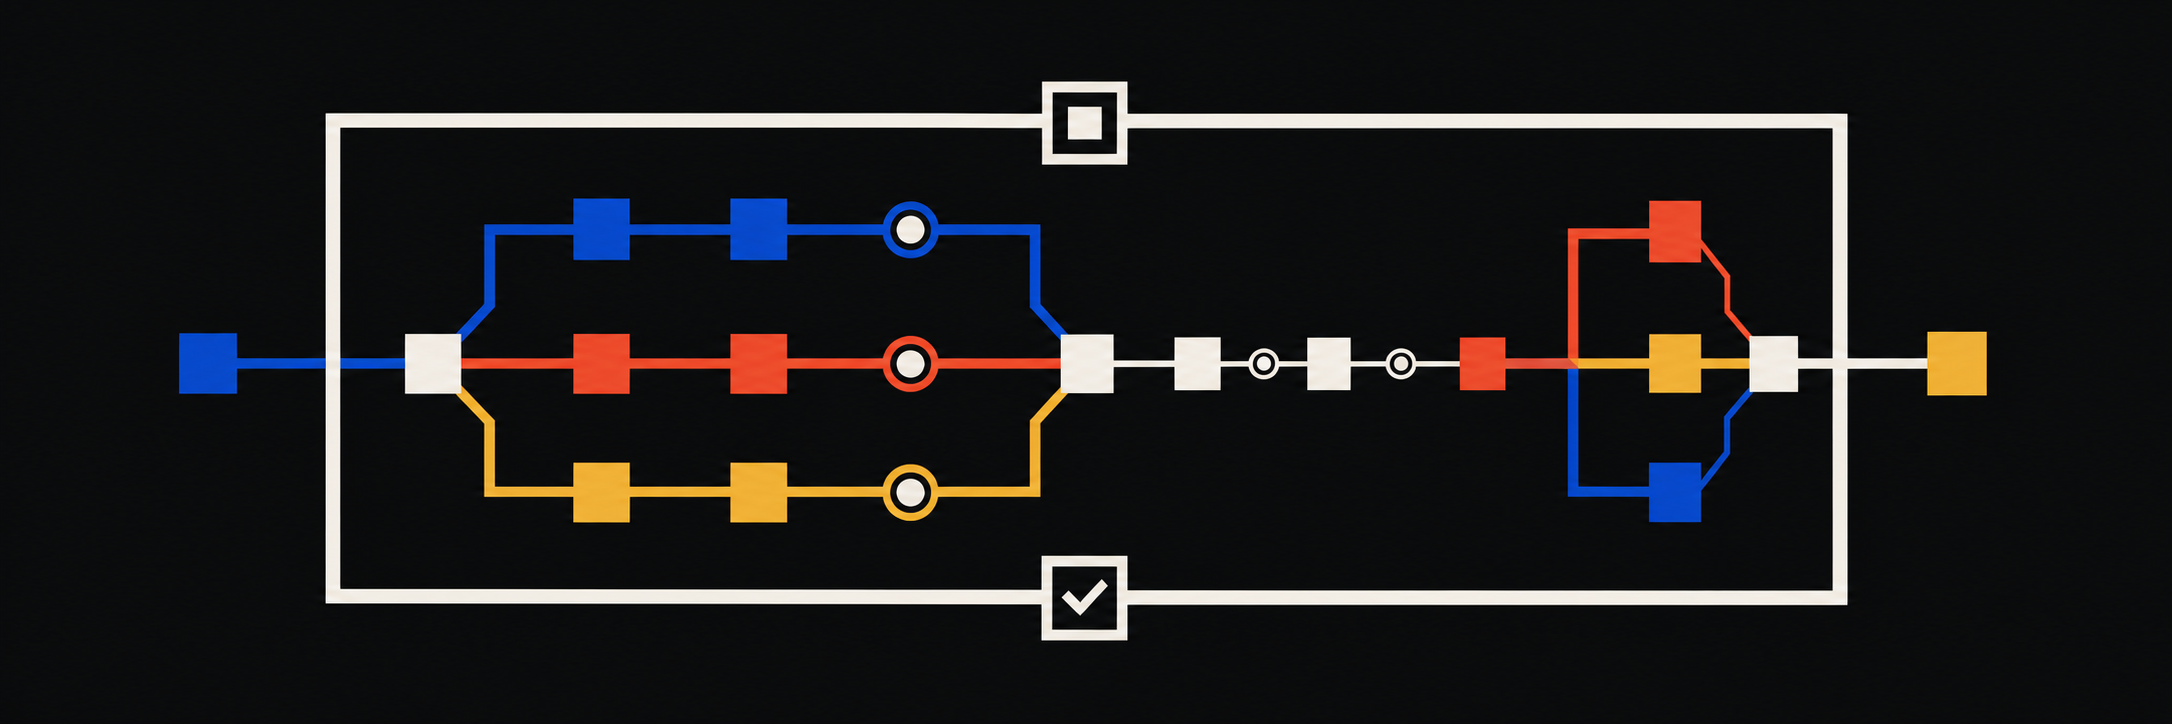
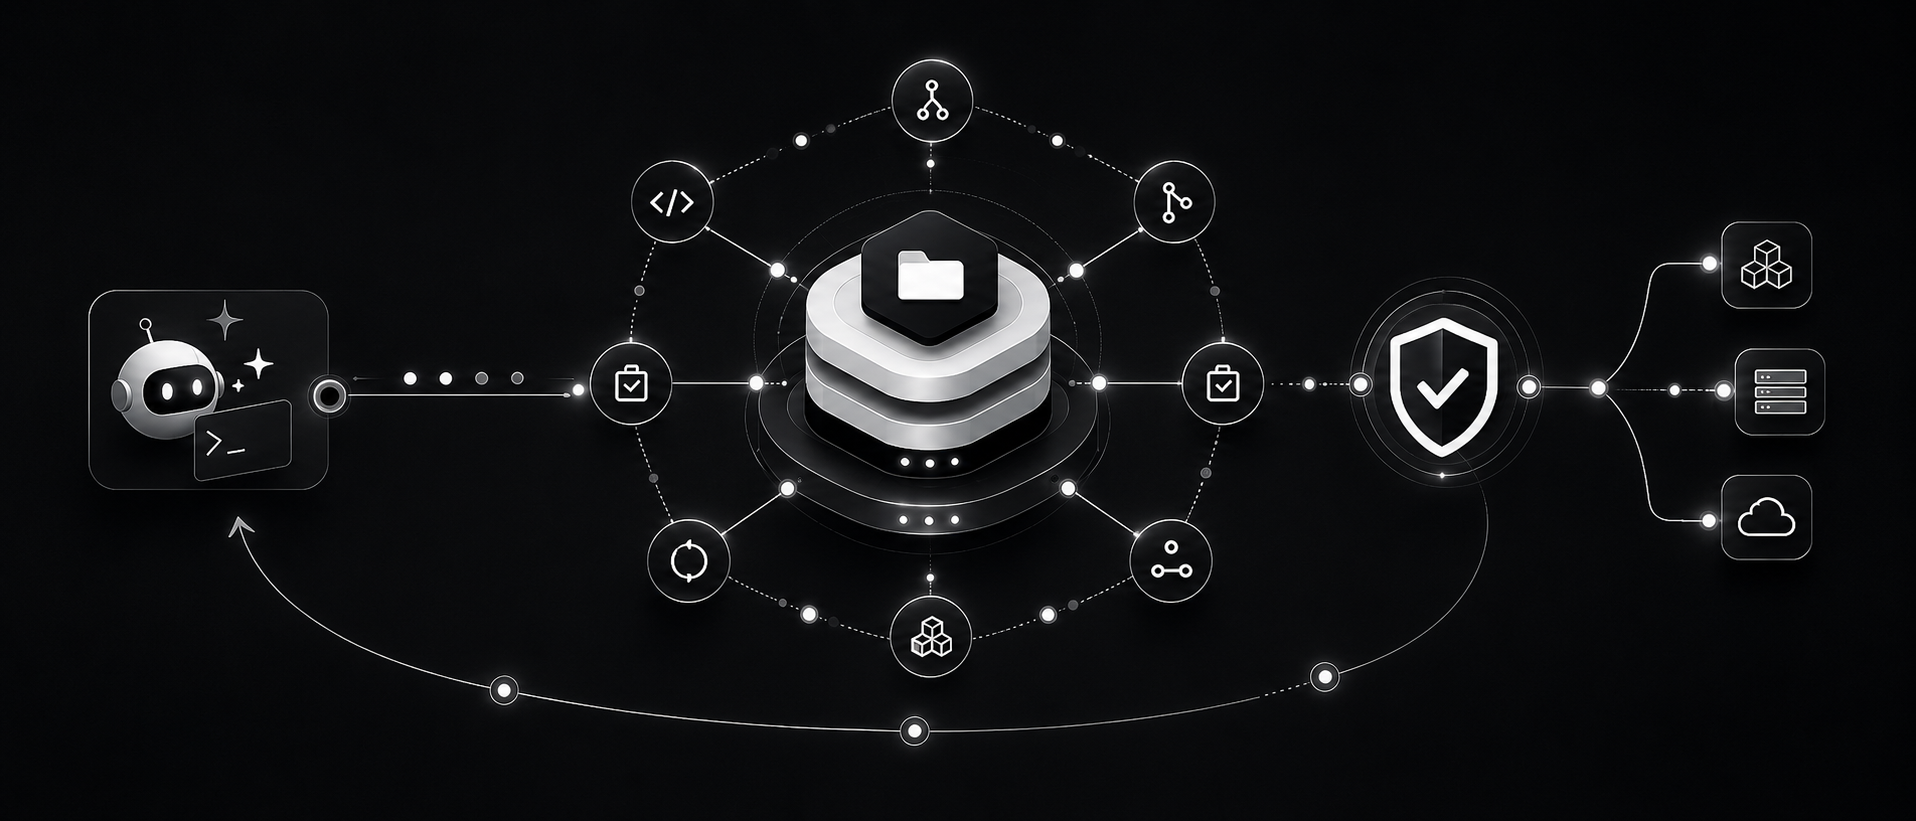
update img

diff --git a/README.zh-CN.md b/README.zh-CN.md
@@ -231,22 +231,22 @@ git config core.hooksPath .githooks
 
 ## 命令
 
-| 命令                         | 作用                                               |
-| ---------------------------- | -------------------------------------------------- |
+| 命令                           | 作用                                               |
+| ------------------------------ | -------------------------------------------------- |
 | `sdlc-harness init`          | 在空仓库或新仓库中生成完整 harness。               |
 | `sdlc-harness adopt`         | 添加缺失的 harness 文件，不覆盖已有文件。          |
 | `sdlc-harness validate`      | 运行全部结构与治理检查；失败时以非零状态退出。     |
 | `sdlc-harness status`        | 以 JSON 输出里程碑数量、各状态功能数量和当前功能。 |
-| `sdlc-harness new-feature`   | 通过交互问答向`feature_list.json` 添加功能。       |
-| `sdlc-harness new-milestone` | 通过交互问答向`feature_list.json` 添加里程碑。     |
+| `sdlc-harness new-feature`   | 通过交互问答向`feature_list.json` 添加功能。     |
+| `sdlc-harness new-milestone` | 通过交互问答向`feature_list.json` 添加里程碑。   |
 
 ## Agent 兼容性
 
-| Agent                                | 核心工作流 | 额外集成                             |
-| ------------------------------------ | ---------: | ------------------------------------ |
-| Claude Code                          |       支持 | 每个工作流阶段都有轻量 skill 包装    |
-| Codex 及其他支持`AGENTS.md` 的 Agent |       支持 | 直接使用仓库协议                     |
-| 其他能够读取文件的编码 Agent         |       支持 | 需要先明确要求 Agent 阅读`AGENTS.md` |
+| Agent                                  | 核心工作流 | 额外集成                               |
+| -------------------------------------- | ---------: | -------------------------------------- |
+| Claude Code                            |       支持 | 每个工作流阶段都有轻量 skill 包装      |
+| Codex 及其他支持`AGENTS.md` 的 Agent |       支持 | 直接使用仓库协议                       |
+| 其他能够读取文件的编码 Agent           |       支持 | 需要先明确要求 Agent 阅读`AGENTS.md` |
 
 `.claude/skills/` 中的包装不包含独立流程逻辑。规范流程仍然位于 `AGENTS.md` 和
 `docs/workflow/` 中，避免不同 Agent 的行为逐渐分叉。
